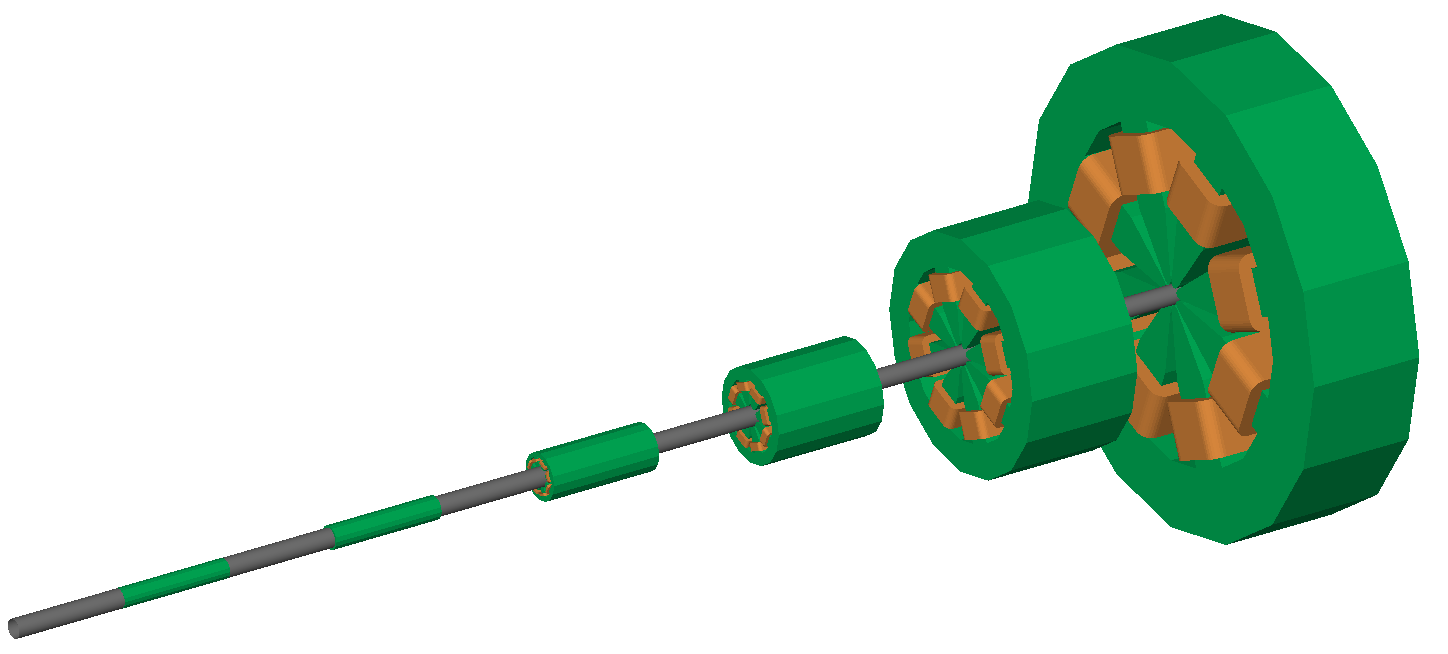
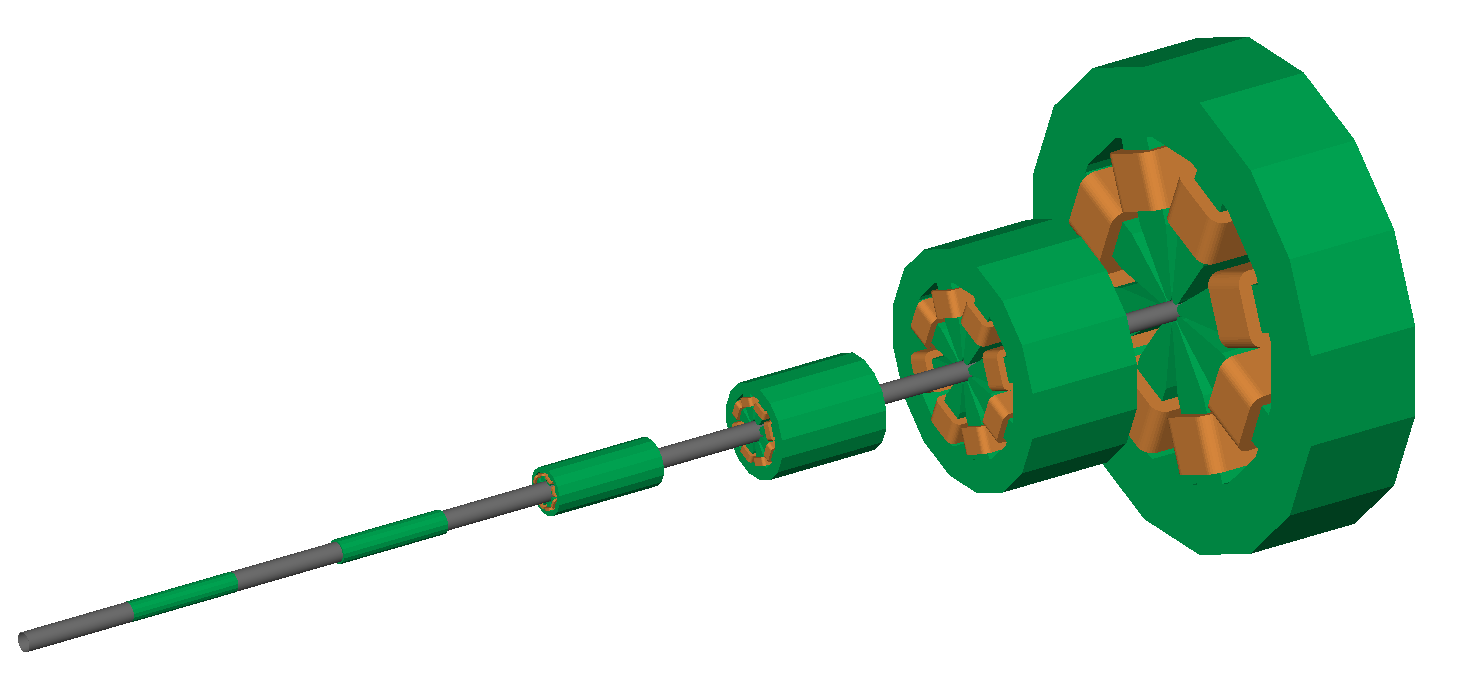
Parameterise the polgon starting angle and offset for pole intersection - fixes location of points in yoke w.r.t. poles. Fix for both facet and facetcrop geometries

diff --git a/src/BDSMagnetOuterFactoryPolesFacetCommon.cc b/src/BDSMagnetOuterFactoryPolesFacetCommon.cc
@@ -17,6 +17,12 @@ BDSMagnetOuterFactoryPolesFacetCommon::BDSMagnetOuterFactoryPolesFacetCommon(G4d
 BDSMagnetOuterFactoryPolesFacetCommon::~BDSMagnetOuterFactoryPolesFacetCommon()
 {;}
 
+void BDSMagnetOuterFactoryPolesFacetCommon::CalculateStartAngles()
+{
+  polyStartAngle = 0;
+  poleIntersectionStartAngle = -segmentAngle*0.5 - CLHEP::halfpi;
+}
+
 void BDSMagnetOuterFactoryPolesFacetCommon::CreateYokeAndContainerSolid(G4String name,
 									G4double length,
 									G4int    order,
@@ -32,11 +38,11 @@ void BDSMagnetOuterFactoryPolesFacetCommon::CreateYokeAndContainerSolid(G4String
   G4double zeroRadii[2]    = {0,0};
   G4double poleEnd         = yokeStartRadius - lengthSafetyLarge;
   G4double poleEndRadii[2] = {poleEnd,          poleEnd};
-
-  const G4double polyStartAngle = CLHEP::halfpi;
+  
+  CalculateStartAngles();
   
   // The start angle for G4Polyhedra lies on a vertex / point and is at the top
-  // in the positive y direction. 
+  // in the positive y direction.
   yokeSolid = new G4Polyhedra(name + "_yoke_solid",    // name
 			      polyStartAngle,          // start angle
 			      CLHEP::twopi,            // sweep angle
@@ -47,18 +53,15 @@ void BDSMagnetOuterFactoryPolesFacetCommon::CreateYokeAndContainerSolid(G4String
 			      outerRadii);
 
   // pole intersection solid
-  // note the start angle is 0 here instead of polyStartAngle as a pole is always
-  // built upright and then rotated to the correct position.
   poleIntersectionSolid = new G4Polyhedra(name + "_yoke_intersection_solid", // name
-					  segmentAngle*0.5,                  // start angle
+					  poleIntersectionStartAngle,        // start angle
 					  CLHEP::twopi,                      // sweep angle
 					  factor*2*order,                    // number of sides
 					  2,                                 // number of z planes
 					  zPlanesLong,                       // z plane z coordinates
 					  zeroRadii,
 					  poleEndRadii);
-  allSolids.push_back(poleIntersectionSolid);
-					  
+  allSolids.push_back(poleIntersectionSolid);					  
   
   G4double contInnerRadii[2] = {0, 0}; // solid polyhedra
   G4double contOuterRadii[2] = {yokeFinishRadius + lengthSafety, yokeFinishRadius + lengthSafety};

diff --git a/src/BDSMagnetOuterFactoryPolesFacetCrop.cc b/src/BDSMagnetOuterFactoryPolesFacetCrop.cc
@@ -18,3 +18,9 @@ BDSMagnetOuterFactoryPolesFacetCrop::~BDSMagnetOuterFactoryPolesFacetCrop()
 {
   _instance = nullptr;
 }
+
+void BDSMagnetOuterFactoryPolesFacetCrop::CalculateStartAngles()
+{
+  polyStartAngle = segmentAngle*0.25;
+  poleIntersectionStartAngle = -segmentAngle*0.25 - CLHEP::halfpi;
+}
